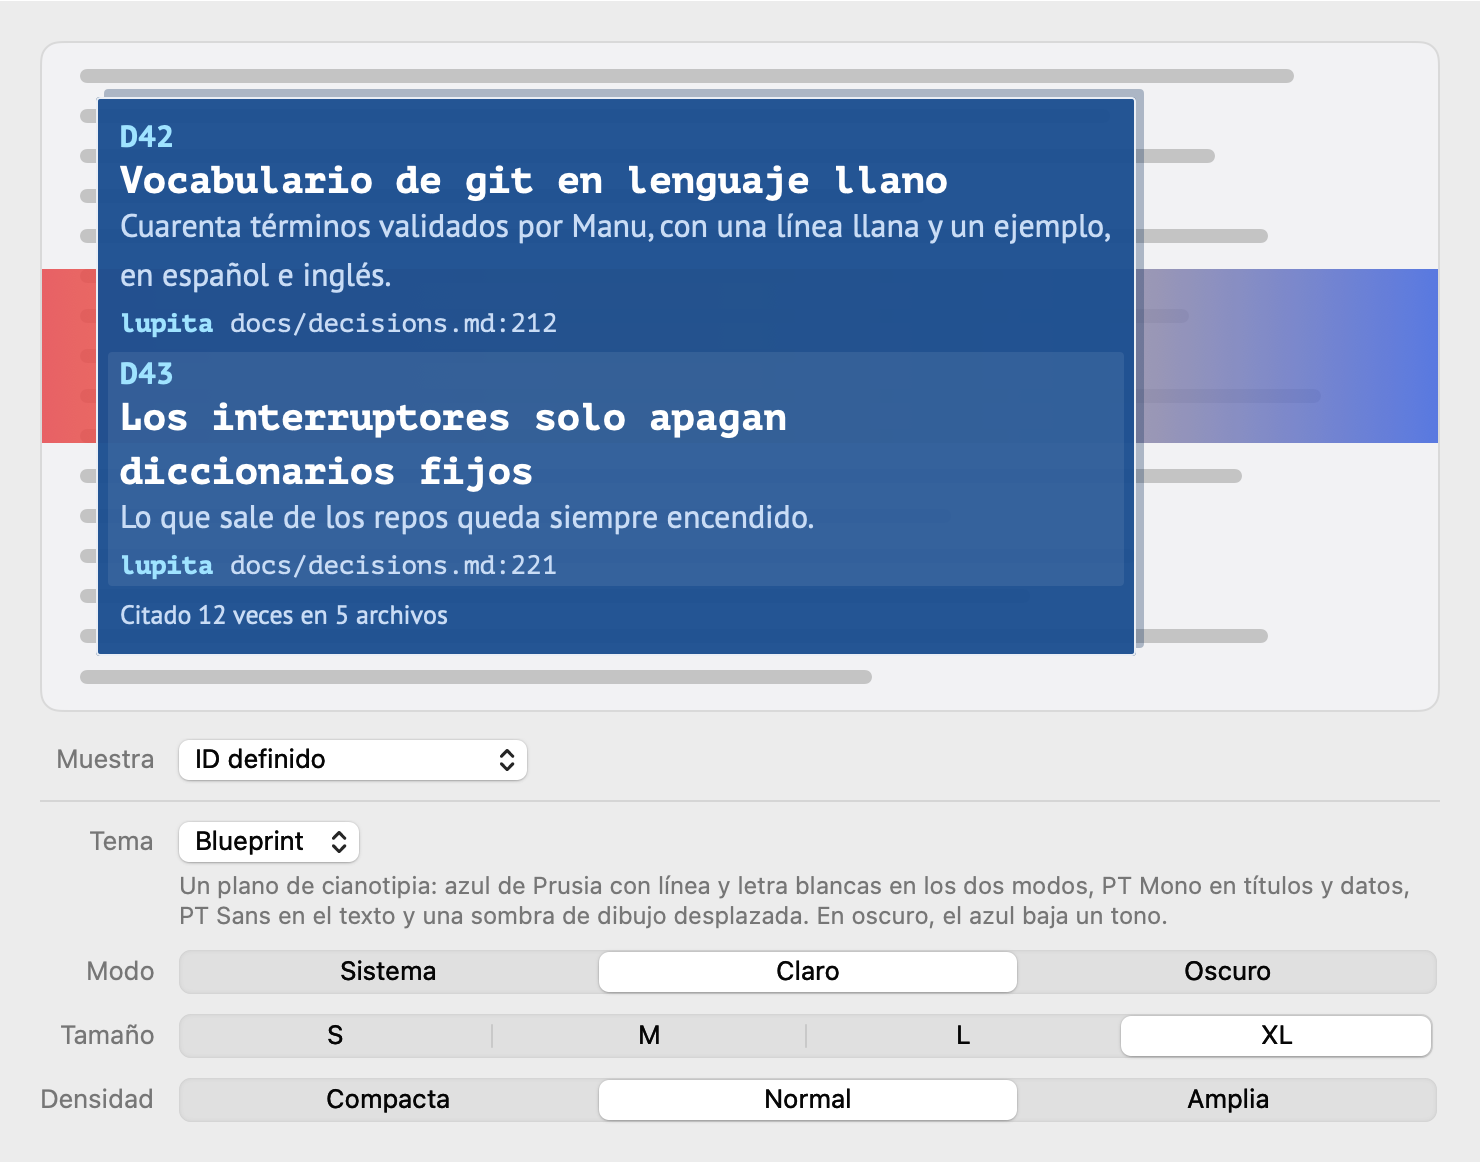
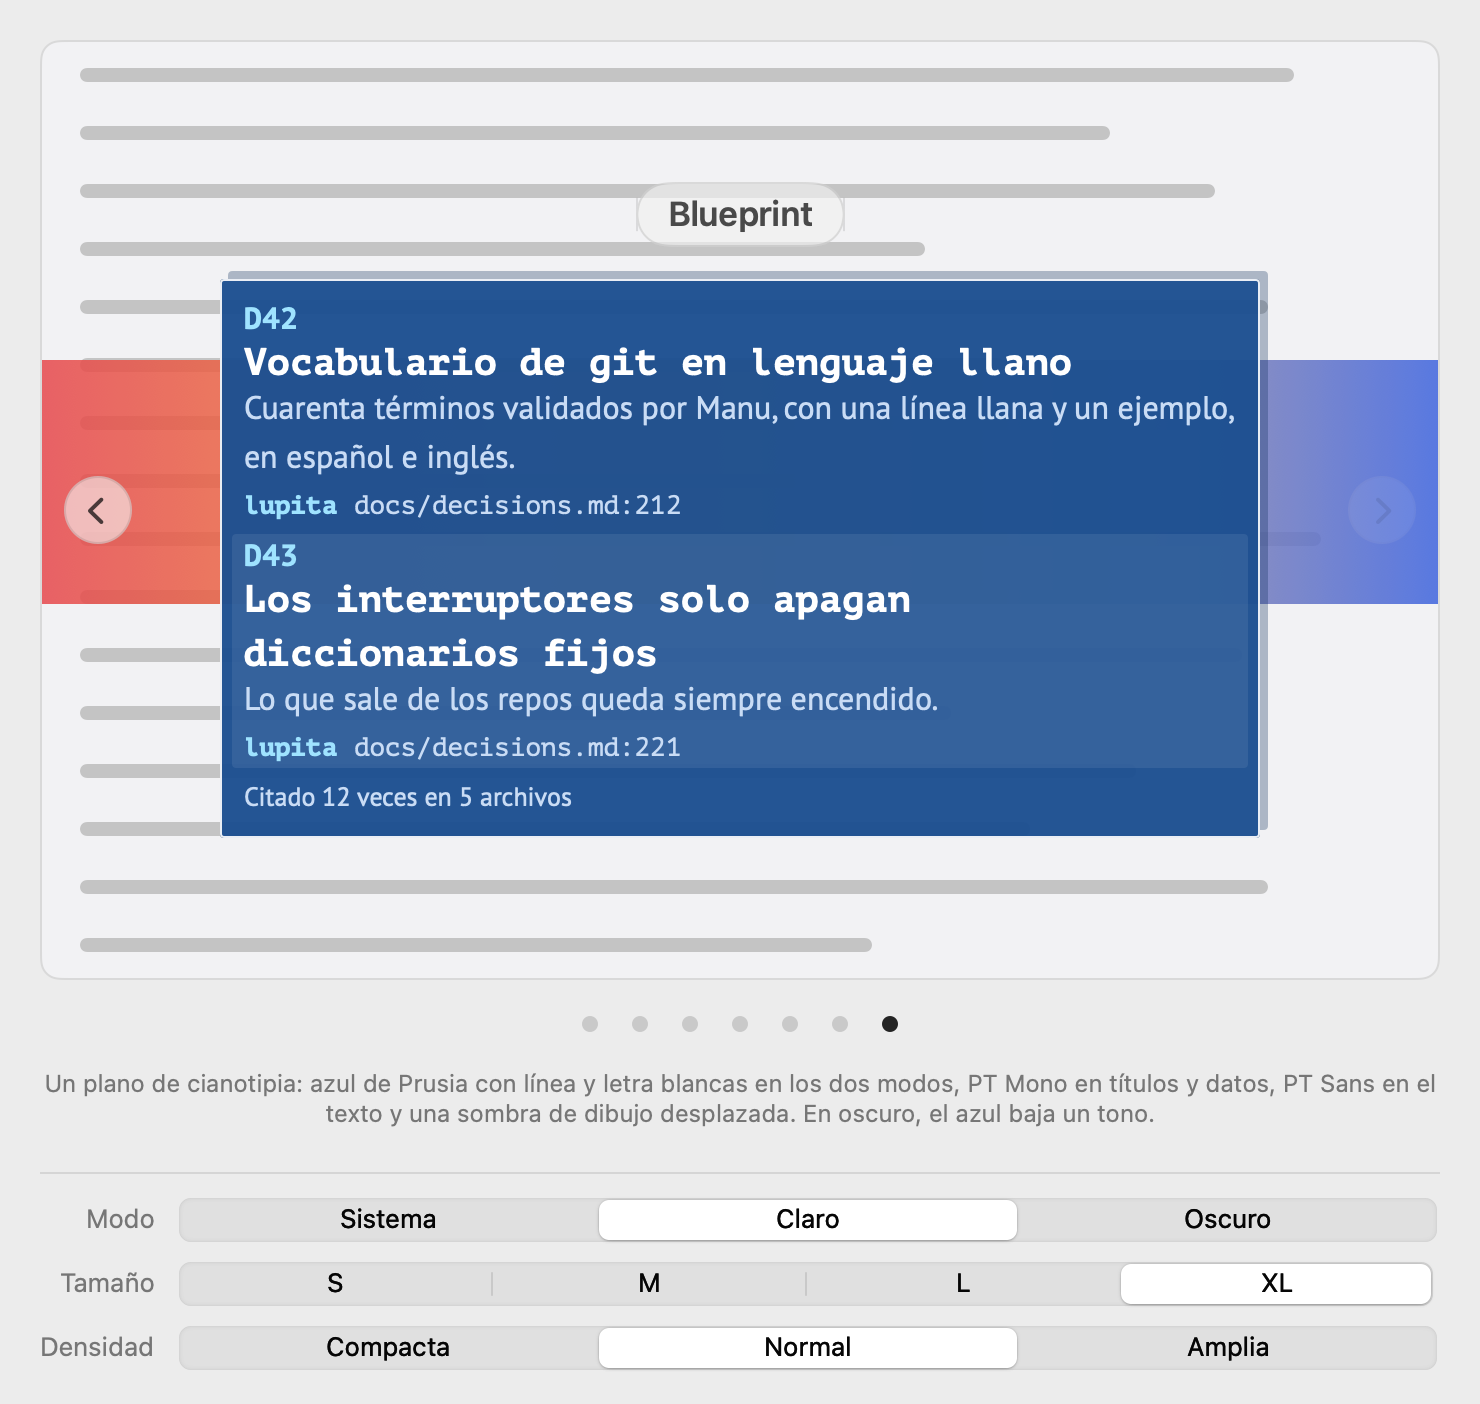
feat(app): Aspecto is a carousel of themes on a fixed window, one representative sample, settings below

diff --git a/Sources/LupitaApp/AspectoWindow.swift b/Sources/LupitaApp/AspectoWindow.swift
@@ -2,44 +2,50 @@ import AppKit
 import LupitaCore
 import SwiftUI
 
-/// «Aspecto» (D55): the live sample of the tooltip over a faux backdrop, the picker of sample states, and the four
-/// controls. Every control goes through `AppearanceModel`, which saves it; the real tooltip reads it when it opens.
+/// «Aspecto» (D55): a carousel of the themes over a fixed faux page, and under it the reader's other settings. One slide per
+/// theme, each with its name and a representative card drawn at the chosen size and density; moving to a slide chooses
+/// that theme. Every control goes through `AppearanceModel`, which saves it; the real tooltip reads it when it opens.
 struct AspectoView: View {
     @ObservedObject var model: AppearanceModel
     /// Fixed for the offscreen renders; nil reads the macOS settings.
     var accessibility: ThemeAccessibility? = nil
     @Environment(\.colorScheme) private var colorScheme
+    // `State` used as a plain type: the `@State` macro plugin is missing without Xcode.
+    private let indexState = State(initialValue: 0)
+    private let dragState = State(initialValue: CGFloat(0))
+    private var index: Int { get { indexState.wrappedValue } nonmutating set { indexState.wrappedValue = newValue } }
+    private var drag: CGFloat { get { dragState.wrappedValue } nonmutating set { dragState.wrappedValue = newValue } }
 
     static let stageWidth: CGFloat = 700
+    static let stageHeight: CGFloat = 470
     static let stagePad: CGFloat = 28
     static let contentWidth: CGFloat = 740
+    /// The window never changes size: stage, dots, the theme's blurb (two lines) and three controls.
+    static let contentHeight: CGFloat = 702
+    private static let ids = TooltipTheme.ids
 
     var systemAccessibility: ThemeAccessibility {
         accessibility ?? ThemeAccessibility(reduceTransparency: NSWorkspace.shared.accessibilityDisplayShouldReduceTransparency,
                                             increaseContrast: NSWorkspace.shared.accessibilityDisplayShouldIncreaseContrast)
     }
 
-    var theme: TooltipTheme { model.sampleTheme(systemIsDark: colorScheme == .dark, accessibility: systemAccessibility) }
+    /// The theme of a slide: the reader's mode, size and density over that slide's theme.
+    func theme(_ id: String) -> TooltipTheme {
+        var p = model.preferences
+        p.themeID = id
+        return p.theme(systemIsDark: colorScheme == .dark, accessibility: systemAccessibility)
+    }
+    var sampleIsDark: Bool { theme(model.preferences.themeID).mode == .dark }
     var state: GalleryState { GalleryStates.all.first { $0.id == model.state } ?? GalleryStates.all[0] }
 
     var body: some View {
-        VStack(alignment: .leading, spacing: 14) {
-            AspectoStage(theme: theme, state: state)
+        VStack(spacing: 12) {
+            stage
+            dots
+            Text(model.blurb).font(.callout).foregroundStyle(.secondary).multilineTextAlignment(.center)
+                .frame(maxWidth: .infinity, minHeight: 40, maxHeight: 40, alignment: .top)
+            Divider()
             Grid(alignment: .leadingFirstTextBaseline, horizontalSpacing: 12, verticalSpacing: 10) {
-                row(S.appearanceSample) {
-                    Picker(S.appearanceSample, selection: Binding(get: { model.state }, set: { model.state = $0 })) {
-                        ForEach(GalleryStates.all, id: \.id) { Text($0.label).tag($0.id) }
-                    }.labelsHidden().pickerStyle(.menu).fixedSize()
-                }
-                Divider().gridCellColumns(2)
-                row(S.appearanceTheme) {
-                    VStack(alignment: .leading, spacing: 4) {
-                        Picker(S.appearanceTheme, selection: Binding(get: { model.preferences.themeID }, set: model.setTheme)) {
-                            ForEach(TooltipTheme.names, id: \.id) { Text($0.name).tag($0.id) }
-                        }.labelsHidden().pickerStyle(.menu).fixedSize()
-                        Text(model.blurb).font(.callout).foregroundStyle(.secondary).fixedSize(horizontal: false, vertical: true)
-                    }
-                }
                 row(S.appearanceMode) {
                     Picker(S.appearanceMode, selection: Binding(get: { model.preferences.appearance }, set: model.setAppearance)) {
                         Text(S.modeSystem).tag(ThemePreferences.Appearance.system)
@@ -62,13 +68,171 @@ struct AspectoView: View {
             }
         }
         .padding(20)
-        .frame(width: Self.contentWidth)
+        .frame(width: Self.contentWidth, height: Self.contentHeight, alignment: .top)
+        .onAppear { index = Self.ids.firstIndex(of: model.preferences.themeID) ?? 0 }
+        .onChange(of: model.preferences.themeID) { _, id in
+            if let i = Self.ids.firstIndex(of: id), i != index { index = i }
+        }
+    }
+
+    // MARK: The carousel
+
+    private func go(to target: Int, animated: Bool = true) {
+        let clamped = min(max(target, 0), Self.ids.count - 1)
+        let change = { index = clamped; drag = 0 }
+        if animated { withAnimation(.spring(response: 0.4, dampingFraction: 0.86), change) } else { change() }
+        model.setTheme(Self.ids[clamped])
+    }
+
+    /// A swipe or a drag that ended `dx` points from where it began: past the threshold it turns the page.
+    private func finish(_ dx: CGFloat) {
+        if dx < -80 { go(to: index + 1) } else if dx > 80 { go(to: index - 1) } else { withAnimation(.spring(response: 0.3, dampingFraction: 0.8)) { drag = 0 } }
+    }
+
+    private var stage: some View {
+        ZStack {
+            FauxPage(dark: sampleIsDark)   // the page stays still; only the slides move
+            HStack(spacing: 0) {
+                ForEach(Array(Self.ids.enumerated()), id: \.element) { _, id in
+                    AspectoSlide(theme: theme(id), state: state).frame(width: Self.stageWidth, height: Self.stageHeight)
+                }
+            }
+            .frame(width: Self.stageWidth, height: Self.stageHeight, alignment: .leading)
+            .offset(x: -CGFloat(index) * Self.stageWidth + drag)
+            arrow("chevron.left", S.appearancePrevious, enabled: index > 0, alignment: .leading) { go(to: index - 1) }
+            arrow("chevron.right", S.appearanceNext, enabled: index < Self.ids.count - 1, alignment: .trailing) { go(to: index + 1) }
+        }
+        .frame(width: Self.stageWidth, height: Self.stageHeight)
+        .clipShape(RoundedRectangle(cornerRadius: 10))
+        .overlay { RoundedRectangle(cornerRadius: 10).strokeBorder(sampleIsDark ? Color(white: 0.23) : Color(white: 0.85)) }
+        .environment(\.colorScheme, sampleIsDark ? .dark : .light)
+        .gesture(DragGesture(minimumDistance: 6)
+            .onChanged { drag = $0.translation.width }
+            .onEnded { finish($0.translation.width) })
+        .background(CarouselInput(
+            onScroll: { dx, ended in
+                drag = dx
+                if ended { finish(dx) }
+            },
+            onKey: { key in
+                switch key { case .left: go(to: index - 1); case .right: go(to: index + 1) }
+            }))
+        .accessibilityElement(children: .contain)
+        .accessibilityLabel(S.appearanceTheme)
+    }
+
+    private func arrow(_ symbol: String, _ label: String, enabled: Bool, alignment: Alignment, _ action: @escaping () -> Void) -> some View {
+        Button(action: action) {
+            Image(systemName: symbol).font(.system(size: 15, weight: .semibold)).frame(width: 34, height: 34)
+                .background(.regularMaterial, in: Circle()).overlay(Circle().strokeBorder(.separator))
+        }
+        .buttonStyle(.plain).disabled(!enabled).opacity(enabled ? 1 : 0.25)
+        .help(label).accessibilityLabel(label)
+        .padding(.horizontal, 12)
+        .frame(maxWidth: .infinity, maxHeight: .infinity, alignment: alignment)
+    }
+
+    private var dots: some View {
+        HStack(spacing: 9) {
+            ForEach(Array(Self.ids.enumerated()), id: \.element) { i, id in
+                let name = TooltipTheme.names.first { $0.id == id }?.name ?? id
+                Button { go(to: i) } label: {
+                    Circle().fill(i == index ? Color.primary : Color.secondary.opacity(0.3)).frame(width: 8, height: 8).padding(4)
+                }
+                .buttonStyle(.plain).help(name).accessibilityLabel(name)
+            }
+        }
+        .frame(height: 20)
     }
 
     private func row<C: View>(_ title: String, @ViewBuilder _ control: () -> C) -> some View {
         GridRow(alignment: .firstTextBaseline) {
             Text(title).foregroundStyle(.secondary).gridColumnAlignment(.trailing)
             control().frame(maxWidth: .infinity, alignment: .leading)
+        }
+    }
+}
+
+/// One slide: the theme's name over a representative card, centred; scaled down only if a large size would not fit.
+private struct AspectoSlide: View {
+    let theme: TooltipTheme
+    let state: GalleryState
+    private let naturalState = State(initialValue: CGSize.zero)
+    private var natural: CGSize { get { naturalState.wrappedValue } nonmutating set { naturalState.wrappedValue = newValue } }
+
+    var body: some View {
+        let fit = natural.height > 0 ? min(1, (AspectoView.stageHeight - 24) / natural.height) : 1
+        VStack(spacing: 16) {
+            Text(theme.name).font(.title2.weight(.semibold)).foregroundStyle(.primary)
+                .padding(.horizontal, 16).padding(.vertical, 6)
+                .background(.regularMaterial, in: Capsule()).overlay(Capsule().strokeBorder(.separator))
+            state.view(theme)
+        }
+        .background(GeometryReader { geo in Color.clear.onAppear { natural = geo.size }.onChange(of: geo.size) { _, s in natural = s } })
+        .scaleEffect(fit)
+        .frame(maxWidth: .infinity, maxHeight: .infinity)
+        .accessibilityElement(children: .combine)
+    }
+}
+
+/// Arrow keys and horizontal trackpad swipes over the window, as the carousel's input. A local monitor, because SwiftUI has no
+/// two-finger-swipe gesture on macOS. Only events of this window, and (for scrolling) over this view.
+private struct CarouselInput: NSViewRepresentable {
+    enum Key { case left, right }
+    let onScroll: (CGFloat, Bool) -> Void
+    let onKey: (Key) -> Void
+
+    func makeNSView(context: Context) -> NSView { Monitor(onScroll: onScroll, onKey: onKey) }
+    func updateNSView(_ view: NSView, context: Context) {
+        (view as? Monitor)?.onScroll = onScroll
+        (view as? Monitor)?.onKey = onKey
+    }
+
+    final class Monitor: NSView {
+        var onScroll: (CGFloat, Bool) -> Void
+        var onKey: (Key) -> Void
+        private var token: Any?
+        private var accumulated: CGFloat = 0
+
+        init(onScroll: @escaping (CGFloat, Bool) -> Void, onKey: @escaping (Key) -> Void) {
+            self.onScroll = onScroll
+            self.onKey = onKey
+            super.init(frame: .zero)
+        }
+        required init?(coder: NSCoder) { fatalError() }
+        override func hitTest(_ point: NSPoint) -> NSView? { nil }
+
+        override func viewDidMoveToWindow() {
+            if let token { NSEvent.removeMonitor(token); self.token = nil }
+            guard window != nil else { return }
+            nonisolated(unsafe) let me = self
+            token = NSEvent.addLocalMonitorForEvents(matching: [.scrollWheel, .keyDown]) { [weak me] event in
+                nonisolated(unsafe) let e = event
+                let consumed = MainActor.assumeIsolated { me?.handle(e) ?? false }
+                return consumed ? nil : event
+            }
+        }
+
+        /// True when the event was the carousel's and must not go on.
+        @MainActor private func handle(_ event: NSEvent) -> Bool {
+            guard let window, event.window === window else { return false }
+            if event.type == .keyDown {
+                switch event.keyCode {
+                case 123: onKey(.left); return true
+                case 124: onKey(.right); return true
+                default: return false
+                }
+            }
+            let point = convert(event.locationInWindow, from: nil)
+            guard event.hasPreciseScrollingDeltas, bounds.contains(point) else { return false }
+            guard event.momentumPhase == [] else { return true }   // the inertia after the fingers lift must not turn another page
+            if event.phase.contains(.began) { accumulated = 0 }
+            guard abs(event.scrollingDeltaX) > abs(event.scrollingDeltaY) || accumulated != 0 else { return false }
+            accumulated += event.scrollingDeltaX
+            let ended = event.phase.contains(.ended) || event.phase.contains(.cancelled)
+            onScroll(accumulated, ended)
+            if ended { accumulated = 0 }
+            return true
         }
     }
 }

diff --git a/Sources/LupitaCore/Strings.swift b/Sources/LupitaCore/Strings.swift
@@ -285,6 +285,8 @@ public enum S {
     public static var appearanceSize: String { t("Size", "Tamaño") }
     public static var appearanceDensity: String { t("Density", "Densidad") }
     public static var appearanceSample: String { t("Sample", "Muestra") }
+    public static var appearancePrevious: String { t("Previous theme", "Tema anterior") }
+    public static var appearanceNext: String { t("Next theme", "Tema siguiente") }
     public static var modeSystem: String { t("System", "Sistema") }
     public static var modeLight: String { t("Light", "Claro") }
     public static var modeDark: String { t("Dark", "Oscuro") }

diff --git a/docs/design-system/INFORME-aspecto.md b/docs/design-system/INFORME-aspecto.md
@@ -5,13 +5,13 @@ Rama `claude/aspecto-77327a` (desde `claude/modest-archimedes-oikgin`). **Nada m
 ## Qué hay
 - **El sistema de diseño en el modelo D55**: tres papeles de fuente (títulos, texto, código), escala de tamaño S/M/L/XL, densidad compacta/normal/amplia y **7 temas** (Cristal por defecto, Papel, Terminal, Neón, Brutalista, Ficha, Blueprint). Grande, Compacto y Lupita ya no son temas.
 - **El tooltip, los avisos y la muestra de color leen esos números**: en `TooltipPanel.swift` no queda ningún valor de estilo escrito a mano; la sombra la dibuja el tema.
-- **Ventana «Aspecto»** (menú → «Aspecto…», encima de «Acerca de»): tooltip de muestra vivo con selector de los 10 estados y cuatro controles (tema, modo, tamaño, densidad). Lo elegido se guarda y el tooltip real lo usa la siguiente vez que aparece, sin reiniciar. Sigue los ajustes de macOS de «aumentar contraste» y «reducir transparencia».
+- **Ventana «Aspecto»** (menú → «Aspecto…», encima de «Acerca de»): un **carrusel de temas**: el fondo queda quieto y cada slide trae el nombre del tema y una card representativa centrada; se pasa con un gesto horizontal del trackpad, con las flechas de los lados o del teclado, o con los puntitos. Debajo, la descripción del tema y los controles de modo, tamaño y densidad. La ventana tiene tamaño fijo y no hay selector de muestra (una sola, representativa). Lo elegido se guarda y el tooltip real lo usa la siguiente vez que aparece, sin reiniciar. Sigue los ajustes de macOS de «aumentar contraste» y «reducir transparencia».
 - **Hojas de contacto reales** (dibujadas por la app, no HTML): `docs/design-system/sheets-real/` (7 temas × claro/oscuro × 10 estados) y `sheets-real/aspecto/` (tamaños y densidades de la ventana).
 - **Números**: 215 tests en verde (184 de antes sin tocar + 31 nuevos), `run-all` en verde, 1680 renders HTML sin desbordes, 140 renders reales sin recortes de sombra ni de texto, 168 capturas de la ventana sin recortes. App firmada con el certificado de siempre y arrancada.
 
 ## Qué se propone
 1. Probar con el plan de 5 puntos de abajo y decidir qué temas se quedan.
-2. Decidir si «Aspecto» pasa los nombres de los estados de muestra a inglés/español (hoy solo español) y si la muestra tiene alto fijo.
+2. Decidir si la muestra única («ID definido») es lo bastante representativa o conviene que incluya también una insignia o un color.
 3. Cuando lo apruebes, el merge es tuyo.
 
 ## Por qué
@@ -24,6 +24,7 @@ Tamaño y densidad son preferencias de quien lee, no de un tema (D55); con token
 - **Sombras**: SwiftUI no tiene «extensión» de sombra; Cristal y Papel salen algo más anchas y Neón algo menos difuso.
 - **Terminal** (Monaco, un solo peso): sin negrita; título e identificador en verde. **Neón, Ficha, Blueprint**: «sin definición» sin cursiva (sus fuentes no tienen).
 - **Dos Lupita a la vez**: está arrancada la tuya (build viejo) y la nueva; ciérrala antes de probar, comparten atajo.
+- **El gesto del trackpad y las flechas no las he podido probar con una persona** (sí compila, se dibuja y el selftest pasa); es lo primero que mirar.
 - Un tooltip ya abierto no cambia al tocar «Aspecto»; el siguiente sí.
 - Detalle y lista completa: `decisiones-pendientes.md` en la carpeta de notas de la sesión.
 
